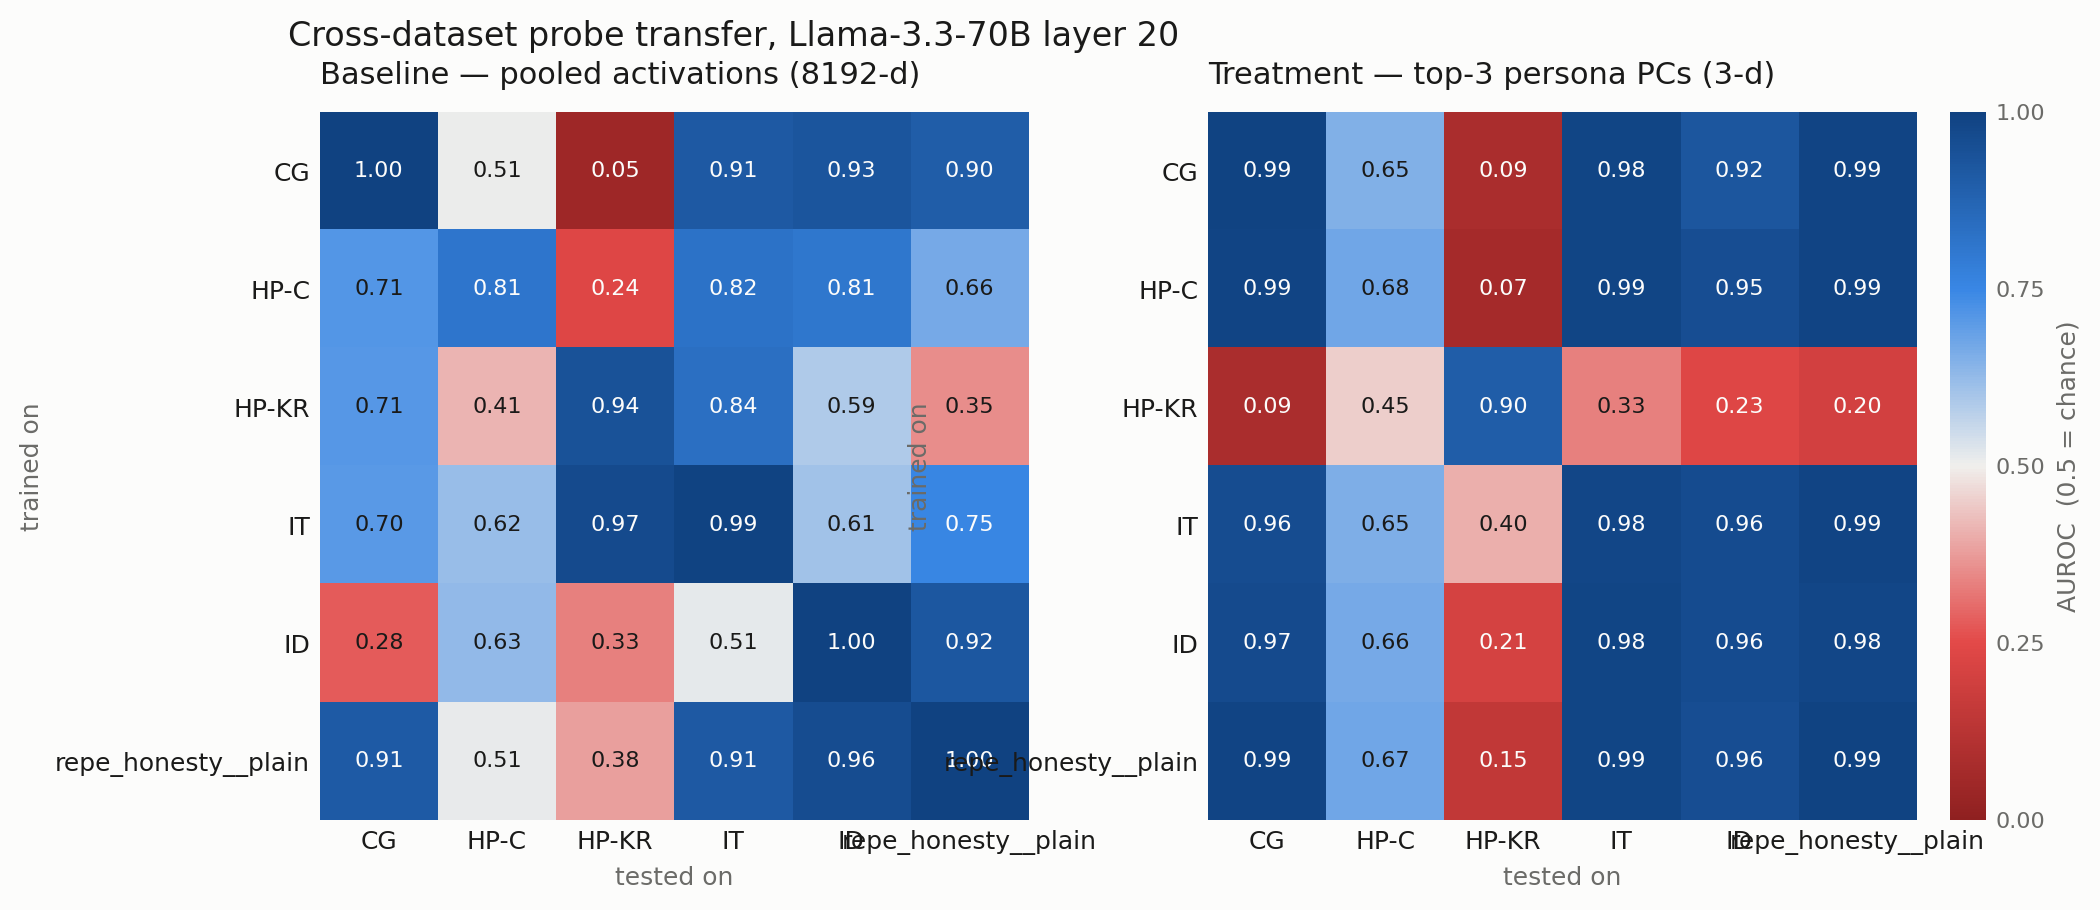
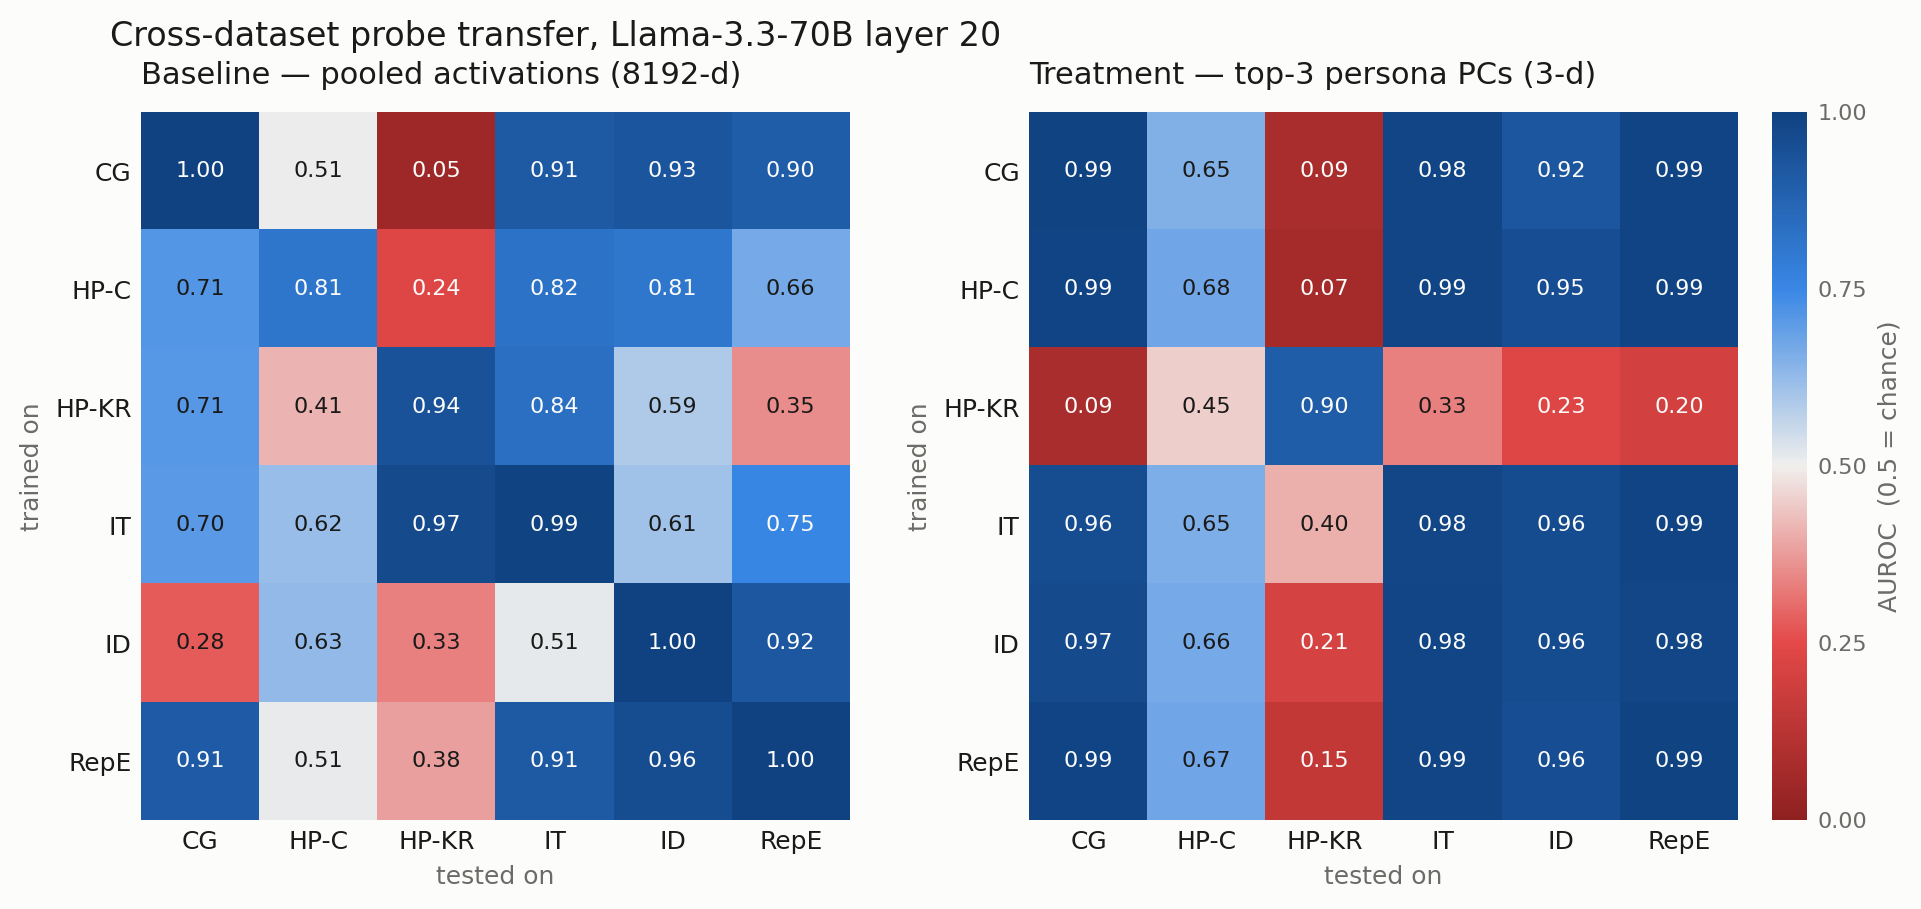
Sycophancy heatmaps, and the invariance the mismatched basis loses
Adds transfer_sycophancy{,_delta}.png -- the deception and sycophancy PC
matrices side by side on the same diverging-at-chance scale, plus their
difference. Compares the two bases directly rather than each against the raw
baseline, which already has its own figure.

Fixes a label bug the new figure exposed: SHORT still keyed RepE on
repe_honesty__plain_val, the pre-merge name, so after the train+val merge the
full dataset name fell through and collided with neighbouring tick labels.
This affected the regenerated deception figures too; all three are rebuilt.

The heatmaps show something the aggregate means hid. Standard deviation of
off-diagonal AUROC across training sets is 0.027 for the deception PCs but
0.163 for the sycophancy PCs -- as training-set-sensitive as raw 8192-d
activations (0.167), and worse than random directions (0.052). The deception
basis makes the probe nearly independent of what it trained on, which is the
mechanism behind the whole result; the mismatched basis does not have that
property at all. Its PC2/PC3 carry structure datasets differ on.

Noted that every 1-d variant scores exactly 0.000 on this metric as an
artifact: a one-feature probe learns only a sign and a scale, so its AUROC
cannot depend on the training set.

Claude-Session: https://claude.ai/code/session_014Vhecs5hv3pkci5MJfAwPs

diff --git a/src/probes/deception-detection/deception_detection/scripts/persona_ood_figures.py b/src/probes/deception-detection/deception_detection/scripts/persona_ood_figures.py
@@ -35,7 +35,8 @@ SHORT = {
     "harm_refusal_knowledge_report__plain": "HP-KR",
     "insider_trading_cadenza__plain": "IT",
     "instruct_dishonesty__plain": "ID",
-    "repe_honesty__plain_val": "RepE",
+    "repe_honesty__plain": "RepE",
+    "repe_honesty__plain_val": "RepE (val only)",
 }
 
 
@@ -198,5 +199,61 @@ def variants(out_dir: str | Path = OUT_DIR) -> None:
     print(f"wrote variants.png to {out_dir}")
 
 
+
+
+def syc(out_dir: str | Path = OUT_DIR) -> None:
+    """The two persona bases side by side, and where they differ.
+
+    Compares deception PCs against sycophancy PCs directly rather than each against the raw
+    baseline -- the baseline already has its own figure, and the question here is what changes
+    when the basis is fitted on a different behaviour.
+    """
+    out_dir = Path(out_dir)
+    pc3, syc3 = _load(out_dir, "pc3"), _load(out_dir, "syc3")
+
+    fig, axes = plt.subplots(1, 2, figsize=(11, 4.6), facecolor=SURFACE)
+    norm = TwoSlopeNorm(vmin=0.0, vcenter=0.5, vmax=1.0)
+    for ax, (matrix, title) in zip(
+        axes,
+        [
+            (pc3, "Deception PCs (3-d)"),
+            (syc3, "Sycophancy PCs (3-d)"),
+        ],
+        strict=True,
+    ):
+        ax.set_facecolor(SURFACE)
+        image = _heatmap(ax, matrix, norm, title, ".2f")
+
+    bar = fig.colorbar(image, ax=axes, fraction=0.025, pad=0.02, ticks=[0, 0.25, 0.5, 0.75, 1.0])
+    bar.set_label("AUROC  (0.5 = chance)", fontsize=9, color=INK_MUTED)
+    bar.ax.tick_params(labelsize=8, colors=INK_MUTED, length=0)
+    bar.outline.set_visible(False)
+    fig.suptitle(
+        "Matched vs mismatched persona basis, on deception datasets",
+        fontsize=12, color=INK, x=0.125, ha="left", y=0.98,
+    )
+    fig.savefig(out_dir / "transfer_sycophancy.png", dpi=200, bbox_inches="tight",
+                facecolor=SURFACE)
+    plt.close(fig)
+
+    fig, ax = plt.subplots(figsize=(6.2, 4.8), facecolor=SURFACE)
+    ax.set_facecolor(SURFACE)
+    delta = syc3 - pc3
+    limit = float(np.nanmax(np.abs(delta.to_numpy(dtype=float))))
+    image = _heatmap(
+        ax, delta, TwoSlopeNorm(vmin=-limit, vcenter=0.0, vmax=limit),
+        "Sycophancy PCs minus deception PCs", "+.2f",
+    )
+    bar = fig.colorbar(image, ax=ax, fraction=0.046, pad=0.03)
+    bar.set_label("Δ AUROC   (blue = sycophancy better)", fontsize=9, color=INK_MUTED)
+    bar.ax.tick_params(labelsize=8, colors=INK_MUTED, length=0)
+    bar.outline.set_visible(False)
+    fig.savefig(out_dir / "transfer_sycophancy_delta.png", dpi=200, bbox_inches="tight",
+                facecolor=SURFACE)
+    plt.close(fig)
+
+    print(f"wrote transfer_sycophancy.png and transfer_sycophancy_delta.png to {out_dir}")
+
+
 if __name__ == "__main__":
-    fire.Fire({"run": run, "variants": variants})
+    fire.Fire({"run": run, "variants": variants, "syc": syc})

diff --git a/src/probes/deception-detection/results/persona_ood/summary.md b/src/probes/deception-detection/results/persona_ood/summary.md
@@ -193,6 +193,32 @@ The basis is behaviour-specific; an adjacent behaviour costs real performance.
 win only once HP-KR is excluded (0.782–0.883 vs 0.728). HP-KR punishes them harder than it punishes
 the deception arms.
 
+### The mismatched basis loses the invariance property
+
+The means understate the difference. Standard deviation of off-diagonal AUROC across training
+sets (HP-KR train row excluded, since it is inverted and dominates):
+
+| features | dim | train-set sensitivity |
+|---|---|---|
+| baseline | 8192 | 0.167 |
+| **deception PCs** | 3 | **0.027** |
+| **sycophancy PCs** | 3 | **0.163** |
+| random directions | 3 | 0.052 |
+
+The deception basis makes the probe nearly independent of what it was trained on — a 6x drop
+against the raw baseline, and the mechanism behind the whole result. **The sycophancy basis does
+not**: at 0.163 it is as training-set-sensitive as raw 8192-d activations, and worse than random
+directions. Its PC2 and PC3 apparently carry structure that datasets differ on and probes overfit
+to, so the mismatched basis loses the one property that made the matched one useful.
+
+This is visible in `transfer_sycophancy.png`: the deception panel has flat rows, the sycophancy
+panel does not (the CG-trained row reads 1.00/0.44/0.05/0.87/0.81/0.67, the HP-C-trained row
+0.17/0.71/0.47/0.60/0.73/0.74).
+
+Every 1-d variant scores exactly 0.000 on this metric, which is an artifact rather than a finding:
+a one-feature probe can only learn a sign and a scale, so its AUROC is fixed by the direction and
+cannot depend on the training set at all.
+
 Note the two behaviours are **not independent**: |cos(deception axis, sycophancy axis)| = **0.5402**,
 so some of the sycophancy transfer is the shared component rather than sycophancy structure. The
 next section isolates that; it is an addition, not a replication.
@@ -257,3 +283,4 @@ itself; the orthogonalised arm carries the conclusion.
 | `matrix_syc3.csv`, `matrix_syc3_orth.csv`, `matrix_syc_axis1.csv`, `matrix_dec3_orth.csv` | the cross-behaviour arms |
 | `transfer_matrices.png`, `transfer_delta.png` | heatmaps |
 | `variants.png` | off-diagonal transfer per feature set |
+| `transfer_sycophancy.png`, `transfer_sycophancy_delta.png` | matched vs mismatched persona basis |
